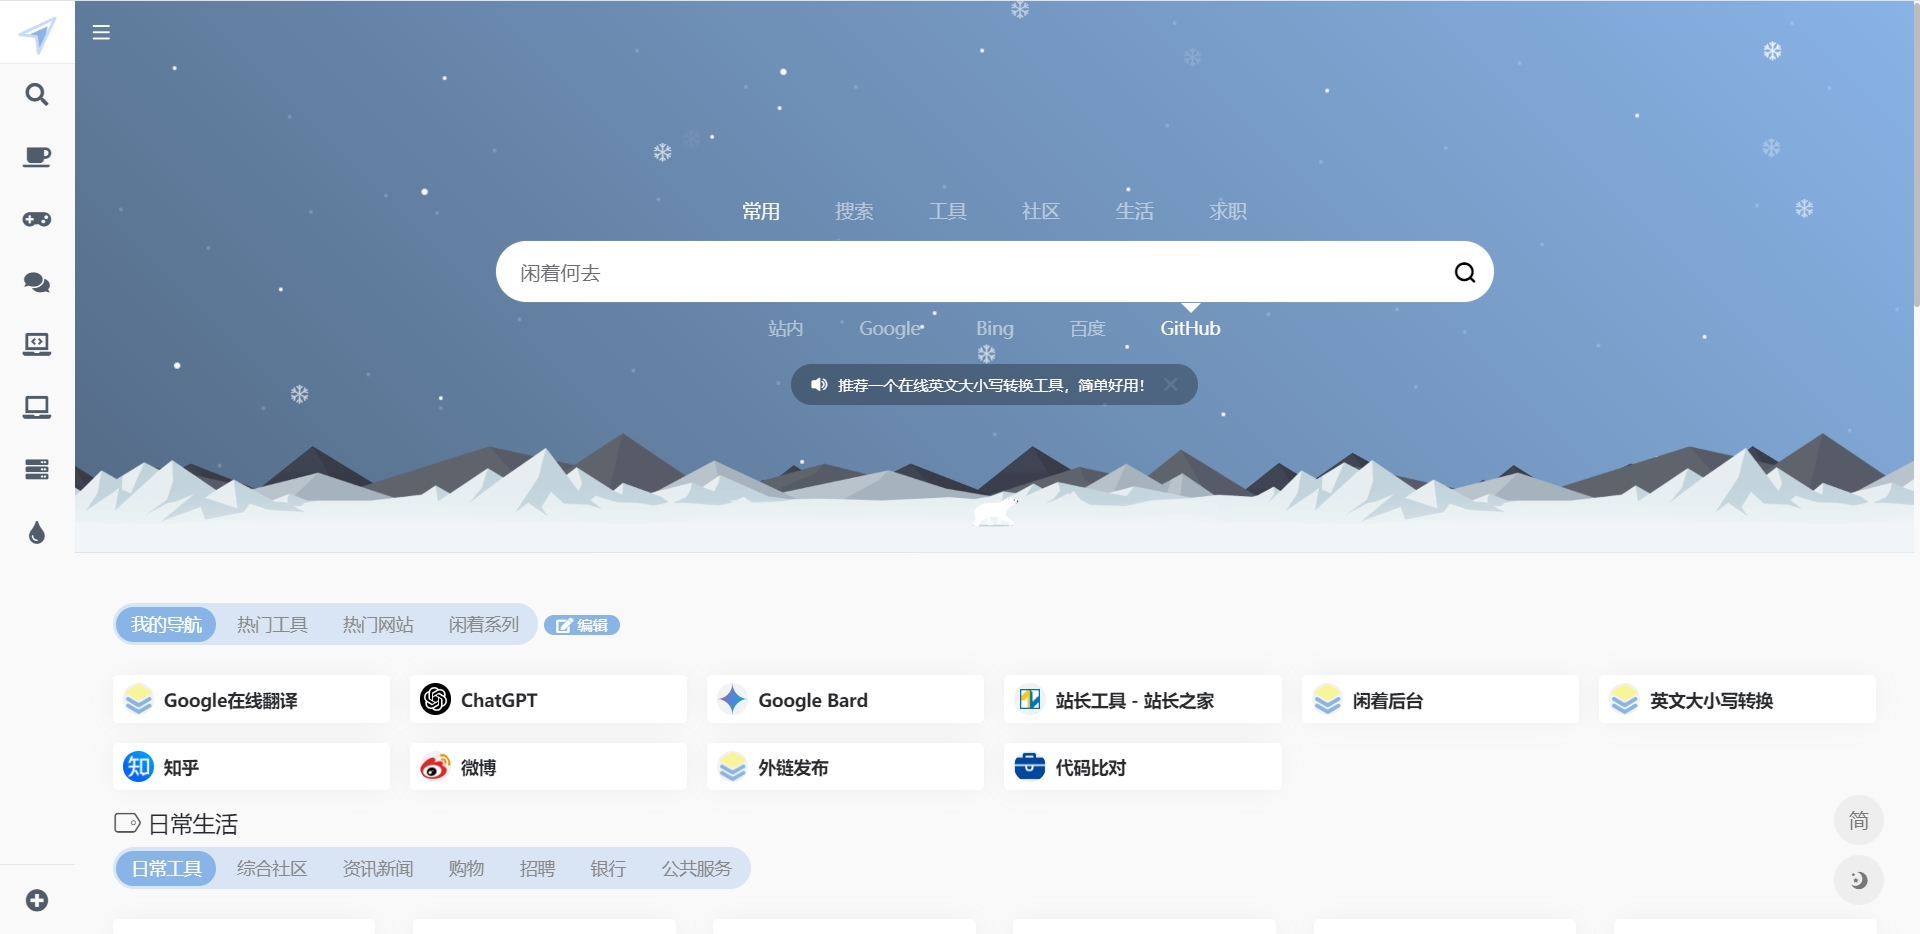
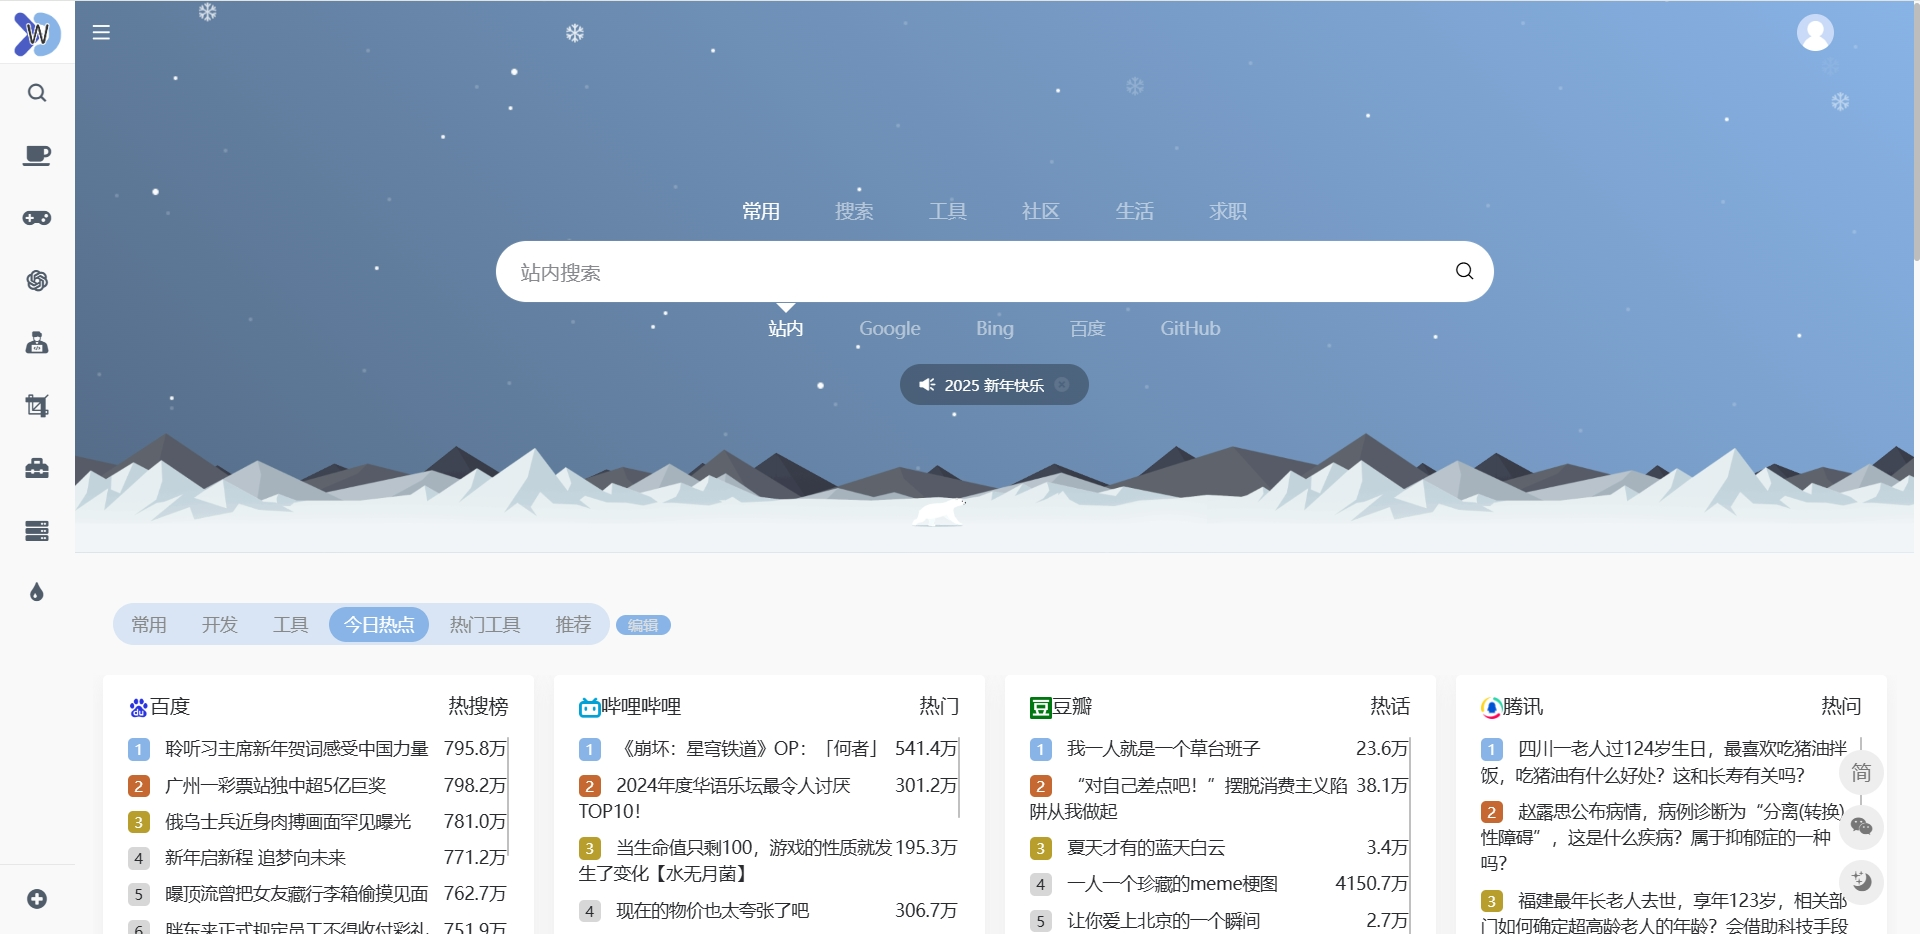
描述更新

diff --git a/README.md b/README.md
@@ -2,21 +2,34 @@
 
 大家好，我是闲者，一个探索中的独立开发者！
 
-![wbtime.com](img/wbtime.com.jpg)
+![wbtime.com](img/wbtime.com.ico)
 
-## [闲着 - 闲者何去](https://wbtime.com/)
+## [时光之外 - 生命不息，探索不止！](https://wbtime.com/)
 
-![闲着，闲着何去，闲者何去](img/wbtime.png)
+![时光之外，生命不息，探索不止！](img/wbtime.png)
 
-首页做的比较简单，仅仅是一个简单的展示页，感兴趣的朋友可以点击底部的[反馈](https://www.wbtime.com/feedback)页面，留下邮箱，后面会不定时推送网站相关信息！
+首页做的比较简单，仅仅是一个简单的展示页，感兴趣的朋友可以点击关于中的[问题反馈](https://www.wbtime.com/doc/jothw-)页面，进行留言！
 
-## [闲着导航 - 自由探索世界](https://nav.wbtime.com/)
+## [时光导航 - 自由探索世界](https://nav.wbtime.com/)
 
-![闲着导航，自由探索世界](img/nav.wbtime.png)
+![时光导航，自由探索世界](img/nav.wbtime.png)
 
-闲着导航 - 自由探索世界，因为浏览器上面的书签栏展示不方便，所以使用nav作为前缀，做了一个常用网址导航网站：闲着导航，
+时光导航 - 自由探索世界，因为浏览器上面的书签栏展示不方便，所以使用nav作为前缀，做了一个常用网址导航网站：时光导航，
 
 目前导航页面上的数据是从后台获取的，暂时不支持自定义设置导航，后面会增加支持自定义设置导航。
+
+2025.1.3 更新：目前已支持自定义导航和热点订阅
+
+## [时光工具 - 好用的在线工具网站](https://tool.wbtime.com/)
+
+![时光工具，好用的在线工具网站](img/tool.wbtime.png)
+
+一个好用的在线工具网站
+
+## [今日热点 - 3分钟纵观世界](https://news.wbtime.com/)
+
+![今日热点，3分钟纵观世界](img/news.wbtime.png)
+
 
 ##  [闲者博客 - 生活，如此而已！](https://blog.wbtime.com/)
 
